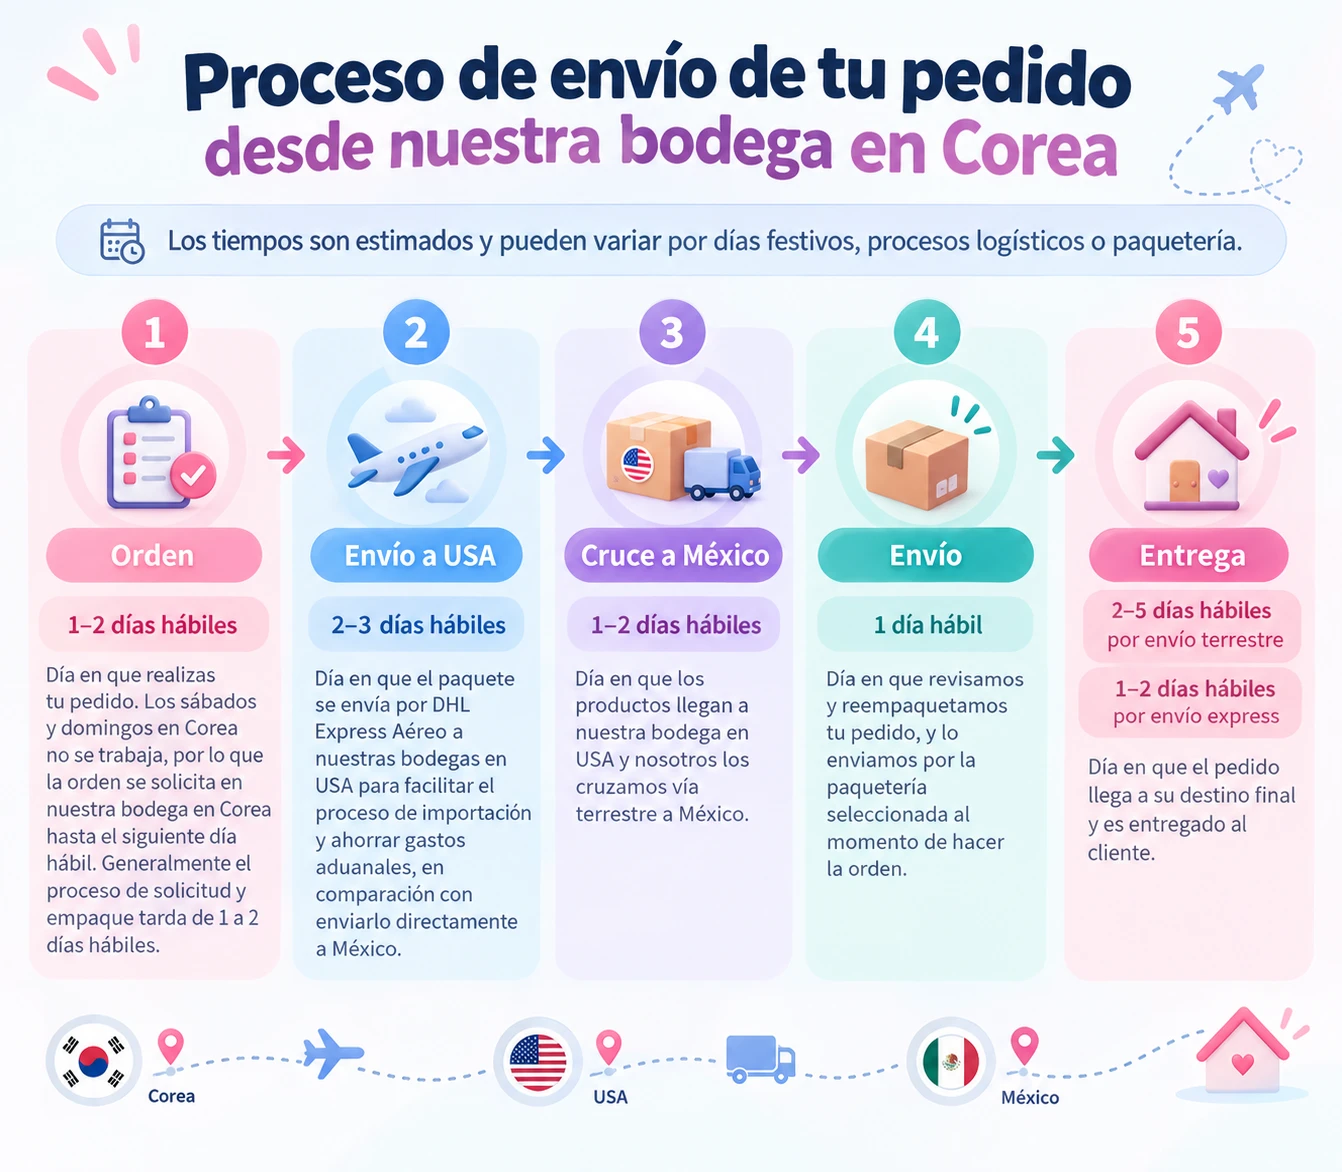
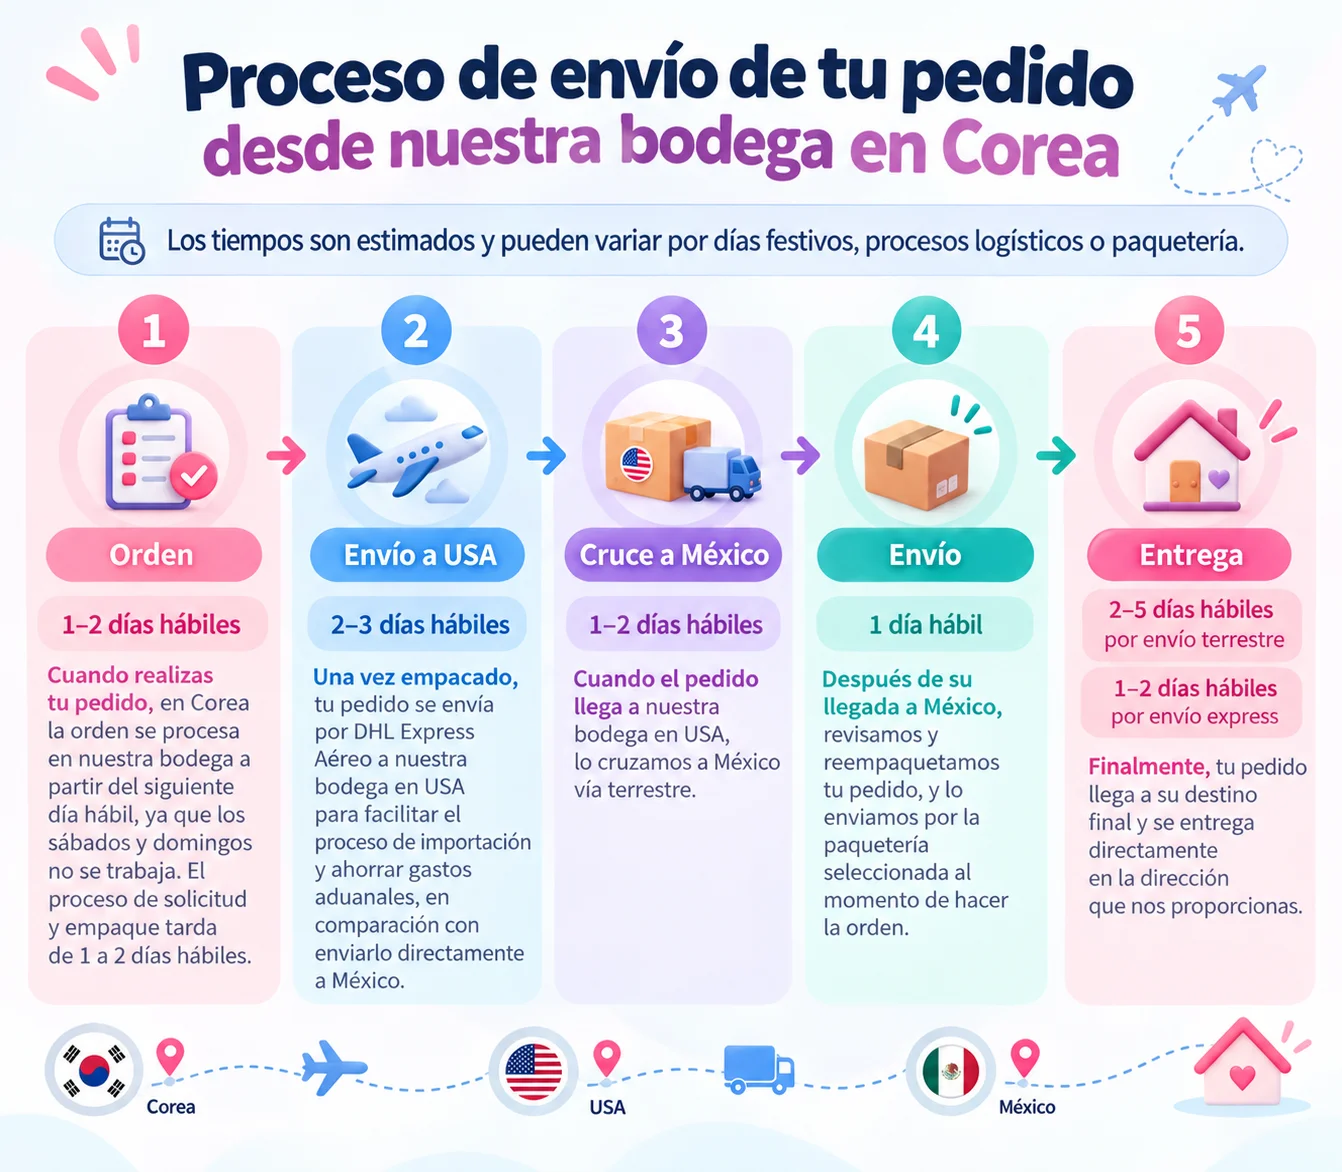
Agrega pop-up de tiempos de entrega junto a "Catálogo completo" (#253)
Nuevo botón "🚚 Conoce nuestros tiempos de entrega" al lado del título
del catálogo completo (sección de Skincare Coreano) que abre un pop-up
accesible con la infografía del proceso de envío desde Corea -- mismo
patrón de ventana ya usado en el sitio (foco atrapado, se cierra con el
botón "x", clic en el fondo, o Escape).

También se actualiza la imagen de la infografía (versión con más detalle
por paso), reutilizando el mismo archivo que ya se mostraba en la
pregunta frecuente "¿Cuánto tarda en llegar mi pedido?", así que ese
lugar también queda con la imagen nueva.

diff --git a/index.html b/index.html
@@ -124,9 +124,14 @@
 
 <!-- Catálogo completo -->
 <section id="catalog-section" class="max-w-7xl mx-auto px-4 sm:px-6 lg:px-8 pt-8 hidden">
-  <div class="flex items-center justify-between mb-4">
+  <div class="flex items-center justify-between mb-4 gap-2 flex-wrap">
     <h2 class="font-logo text-xl sm:text-2xl text-ink">Catálogo completo</h2>
-    <button id="catalog-clear" type="button" class="text-xs text-ink/75 hover:text-ink underline">Cerrar catálogo</button>
+    <div class="flex items-center gap-3">
+      <button id="shipping-times-open" type="button" class="tap inline-flex items-center gap-1.5 rounded-full border border-lilac/50 bg-lilac/10 text-ink text-xs font-semibold px-3 py-1.5 hover:bg-lilac/20 transition">
+        🚚 Conoce nuestros tiempos de entrega
+      </button>
+      <button id="catalog-clear" type="button" class="text-xs text-ink/75 hover:text-ink underline">Cerrar catálogo</button>
+    </div>
   </div>
   <div id="catalog-grid" class="grid grid-cols-2 sm:grid-cols-3 lg:grid-cols-4 gap-4"></div>
   <p id="catalog-empty" class="hidden text-center text-ink/75 py-6">No hay productos disponibles por el momento.</p>
@@ -1063,6 +1068,18 @@
   </div>
   </div>
 </aside>
+
+<!-- Tiempos de entrega (infografía) -->
+<div id="shipping-times-overlay" role="dialog" aria-modal="true" aria-labelledby="shipping-times-title" tabindex="-1" inert
+  class="fixed inset-0 bg-ink/40 backdrop-blur-sm z-50 opacity-0 pointer-events-none scrim flex items-center justify-center p-4">
+  <div class="modal-card bg-cream rounded-2xl shadow-2xl w-full max-w-lg p-4 max-h-[90vh] overflow-y-auto">
+    <div class="flex items-center justify-between mb-2">
+      <h3 id="shipping-times-title" class="font-logo text-lg text-ink">🚚 Tiempos de entrega</h3>
+      <button id="shipping-times-close" type="button" aria-label="Cerrar" class="-mr-2 w-11 h-11 flex items-center justify-center rounded-full text-ink/75 hover:text-ink hover:bg-ink/5 text-2xl leading-none transition-colors">&times;</button>
+    </div>
+    <img src="./assets/shipping-korea-process.webp" alt="Proceso de envío de tu pedido desde nuestra bodega en Corea: 1) Orden (1-2 días hábiles), 2) Envío a USA (2-3 días hábiles), 3) Cruce a México (1-2 días hábiles), 4) Envío (1 día hábil), 5) Entrega (2-5 días hábiles por envío terrestre, 1-2 días hábiles por envío express). Los tiempos son estimados y pueden variar." class="w-full h-auto rounded-xl" />
+  </div>
+</div>
 
 <!-- Avísame cuando vuelva (producto agotado) -->
 <div id="restock-overlay" role="dialog" aria-modal="true" aria-labelledby="restock-title" tabindex="-1" inert

diff --git a/app.js b/app.js
@@ -585,6 +585,22 @@ function initRestock() {
   document.getElementById("restock-form").addEventListener("submit", handleRestockSubmit);
 }
 
+/* Pop-up con la infografía de tiempos de entrega, junto a "Catálogo
+   completo" -- mismo patrón de ventana accesible que "Avísame cuando
+   vuelva" (ver DIALOGS arriba), pero sin formulario, solo la imagen. */
+function wireShippingTimesModal() {
+  const openBtn = document.getElementById("shipping-times-open");
+  const overlay = document.getElementById("shipping-times-overlay");
+  const closeBtn = document.getElementById("shipping-times-close");
+  if (!openBtn || !overlay || !closeBtn) return;
+  const close = () => overlay.classList.add("opacity-0", "pointer-events-none");
+  openBtn.addEventListener("click", () => overlay.classList.remove("opacity-0", "pointer-events-none"));
+  closeBtn.addEventListener("click", close);
+  overlay.addEventListener("click", (e) => {
+    if (e.target.id === "shipping-times-overlay") close();
+  });
+}
+
 /* ======================================================================
    Calificaciones de producto -- solo clientas con cuenta que ya tienen
    un pedido PAGADO con ese SKU pueden calificar (lo valida el servidor,
@@ -3557,6 +3573,7 @@ const DIALOGS = [
   { panel: "restock-overlay", close: "restock-close", closedClass: "opacity-0" },
   { panel: "review-overlay", close: "review-close", closedClass: "opacity-0" },
   { panel: "reviews-list-overlay", close: "reviews-list-close", closedClass: "opacity-0" },
+  { panel: "shipping-times-overlay", close: "shipping-times-close", closedClass: "opacity-0" },
 ];
 
 // Pila de paneles abiertos; el último es el que está hasta arriba.
@@ -4868,6 +4885,7 @@ document.addEventListener("DOMContentLoaded", () => {
   initWishlist();
   initRestock();
   initReviews();
+  wireShippingTimesModal();
 
   // Por si alguien traía carritos de ambas colecciones guardados de antes
   // de que el carrito fuera uno solo: se queda el de Skincare Coreano.
